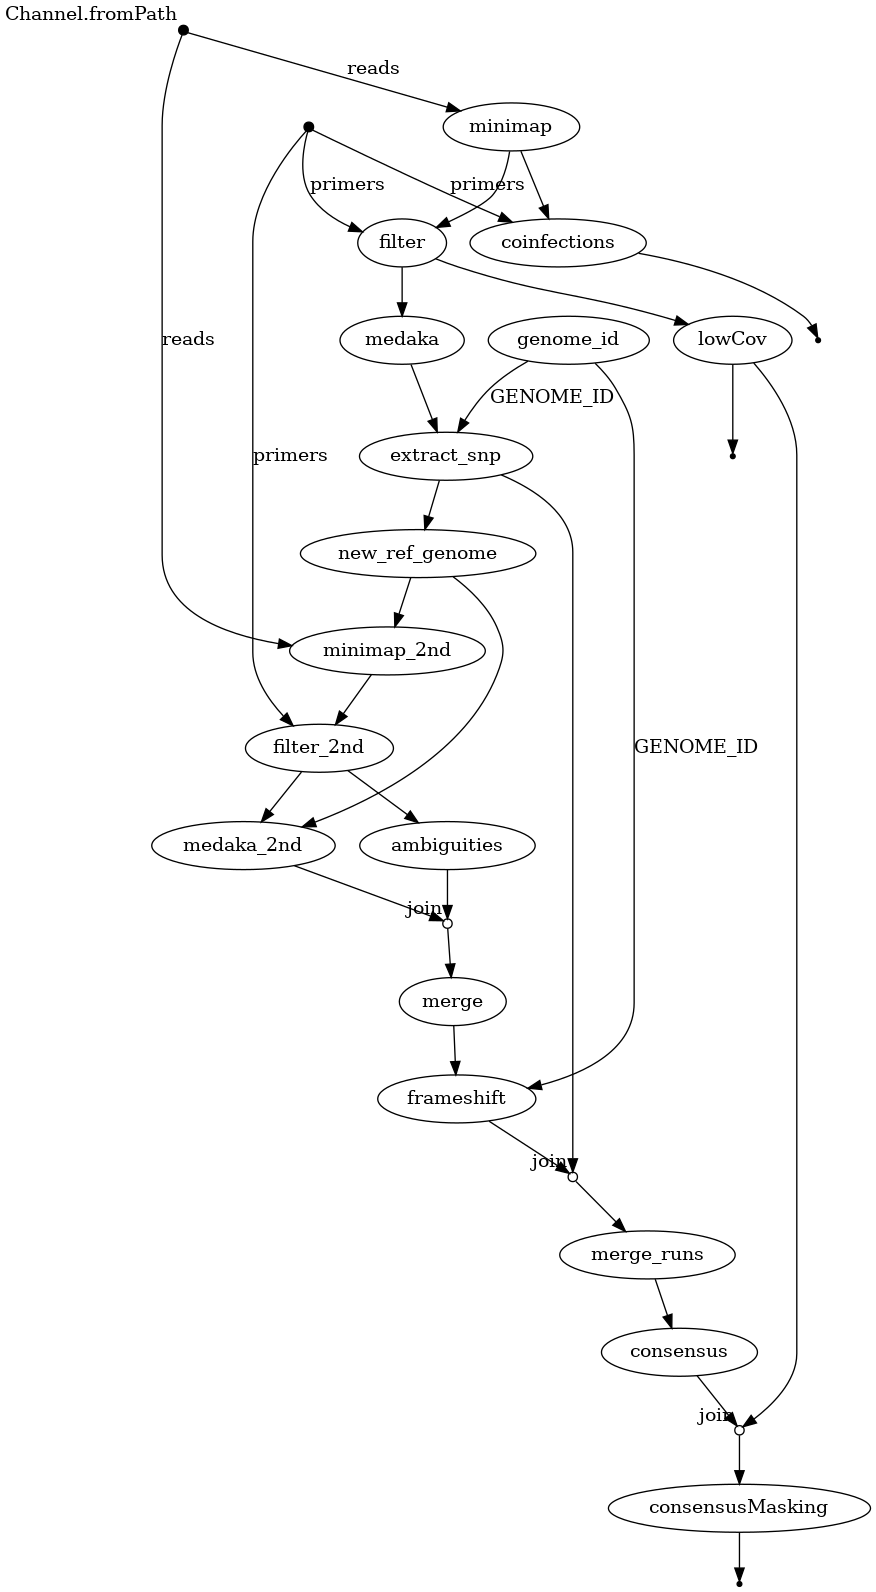
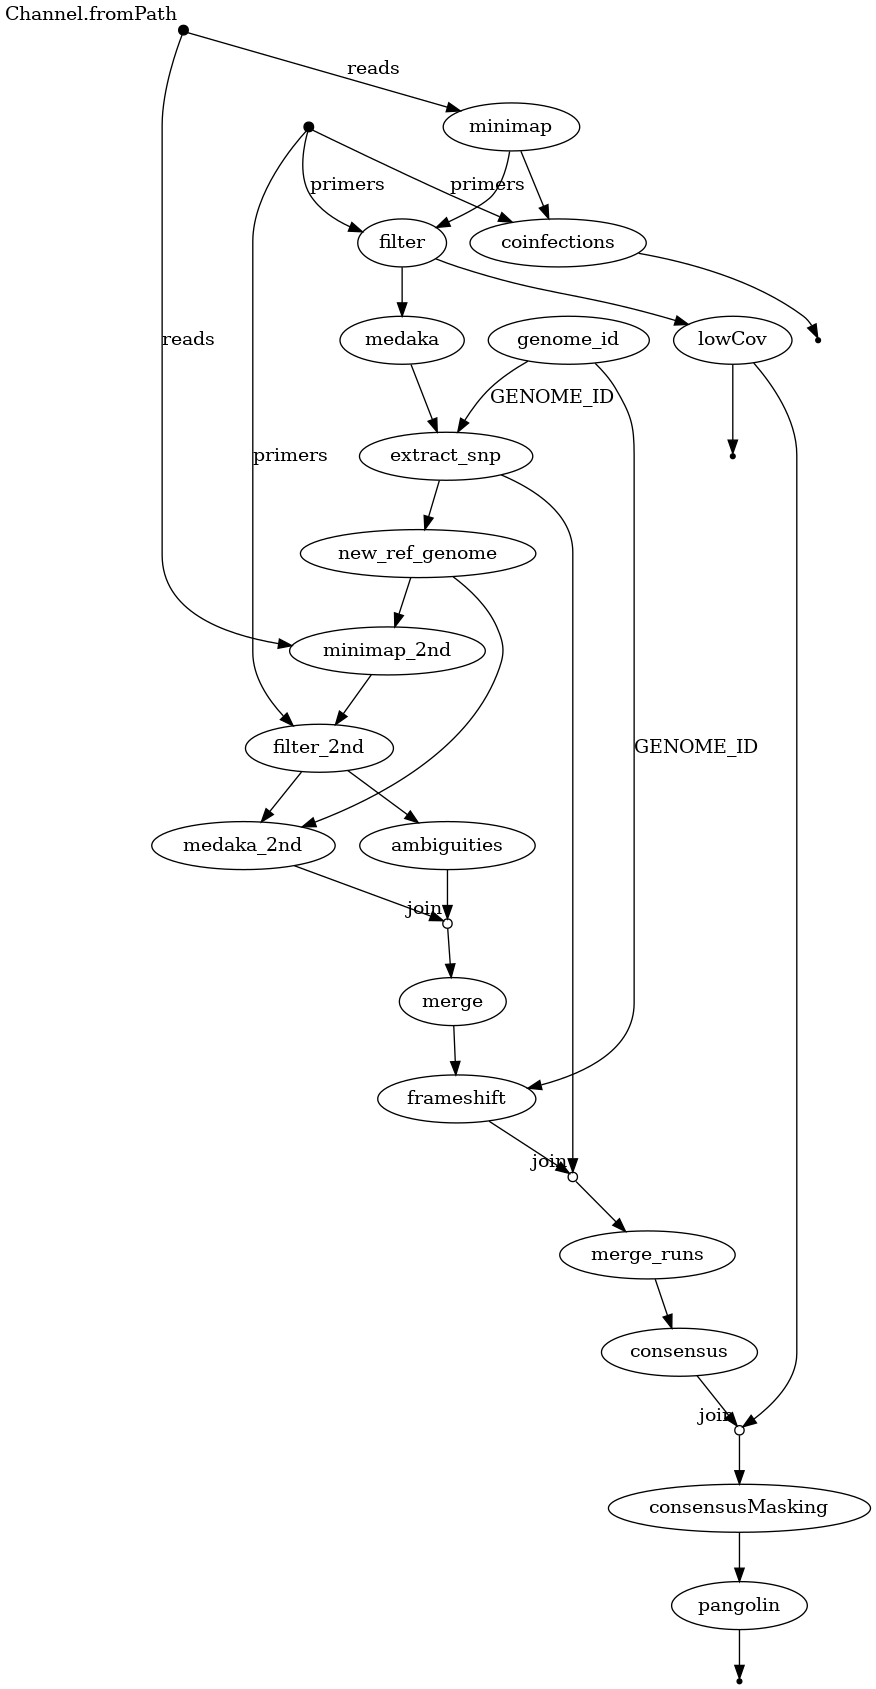
pangolin.nf module added

diff --git a/bin/calculate_N.py b/bin/calculate_N.py
@@ -1,24 +1,25 @@
-#Simple script ot report number of N's in fasta sequence
+#!/usr/bin/env python3
+# Simple script ot report number of N's in fasta sequence
 
 
-from Bio import SeqIO
 import sys
 
+from Bio import SeqIO
 
 record = SeqIO.parse(sys.argv[1], "fasta")
 out = sys.argv[2]
 with open(out, 'w') as f:
     for r in record:
-        i = 0 # total number 
-        
-        pos = 1 # indeksowana od 1
-        slownik = {}   # tutaj trzymamy ako klucz gdzie zaczyna sie ciag N i jaka ma dlugosc
+        i = 0  # total number
+
+        pos = 1  # indeksowana od 1
+        slownik = {}  # tutaj trzymamy ako klucz gdzie zaczyna sie ciag N i jaka ma dlugosc
         previous = 'A'
         ciag = 0
 
         for element in str(r.seq).upper():
             if element == 'N':
-                i+=1 # zwykle liczenie N
+                i += 1  # zwykle liczenie N
                 if previous != 'N':
                     # zaczynamy ciag, tworzymy slownik i rozpoczynamy liczenie ciagu
                     slownik[pos] = 0
@@ -32,14 +33,12 @@ with open(out, 'w') as f:
                     slownik[pos_ciag] = ciag
                 else:
                     # nic nie robie 
-                    pass 
+                    pass
             previous = element
-            pos +=1
+            pos += 1
         # jesli konczymy N-ka zrzucamy ostatni ciag
         if previous == 'N':
             slownik[pos_ciag] = ciag
 
-         
-        dlugosc=len(str(r.seq))
-        f.write(f'Total length of a sequence {r.id} is {len(str(r.seq))}; total numer of "N" is {i} ({i/dlugosc * 100}%); longest stretch of "N" starts at {sorted(slownik.items(), key = lambda x: x[1], reverse = True)[0][0] } and its length is {sorted(slownik.items(), key = lambda x: x[1], reverse = True)[0][1]}\n')
-
+        dlugosc = len(str(r.seq))
+        f.write(f'Total length of a sequence {r.id} is {len(str(r.seq))}; total numer of "N" is {i} ({i / dlugosc * 100}%); longest stretch of "N" starts at {sorted(slownik.items(), key=lambda x: x[1], reverse=True)[0][0]} and its length is {sorted(slownik.items(), key=lambda x: x[1], reverse=True)[0][1]}\n')

diff --git a/bin/get_N.py b/bin/get_N.py
@@ -5,7 +5,7 @@ Simple script to replace low-coverage aminoacids with N in a sequence
 Input is a alignment between reference (with N in place of low coverage regions) and a sequence with SNPs and SV
 Elements of the latter sequence will be replaced with Ns
 1st argument is the alignment
-2nd arguemnt is the name of the output fasta
+2nd argument is the name of the output fasta
 """
 
 import sys
